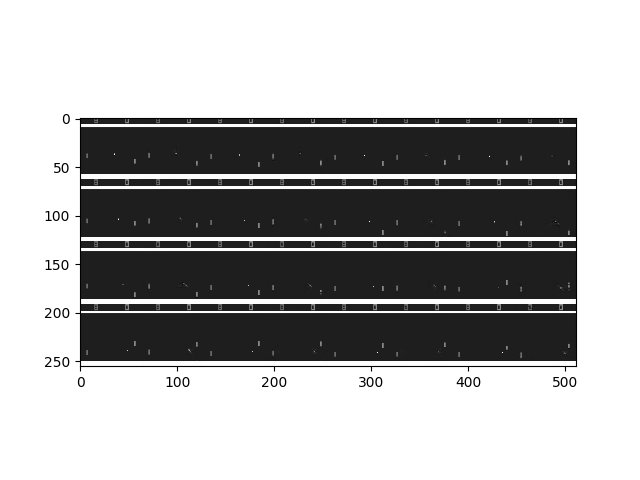
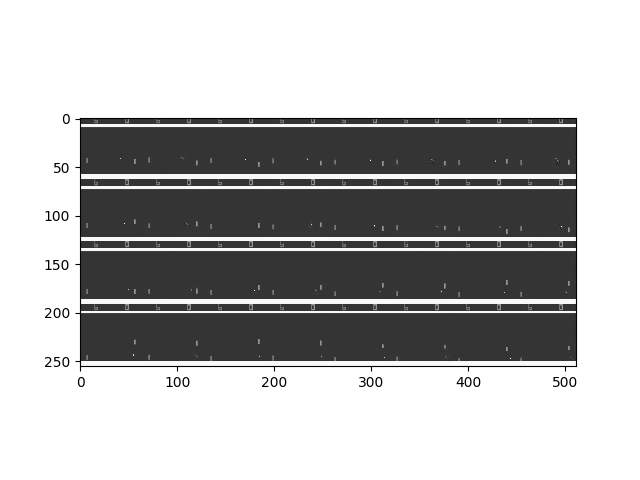
wgan transition

diff --git a/3dvae/transition.py b/3dvae/transition.py
@@ -51,3 +51,76 @@ class Transition(object):
     def close_session(self):
         self.sess.close()
 
+class TransitionWGAN(object):
+    def __init__(self, input_dim=[None,256], output_dim=[None,2*256], learning_rate=1e-3, batch_size=64, model_fname='/home/ronnypetson/models/Transition_WGAN'):
+        self.input_dim = input_dim
+        self.output_dim = output_dim
+        self.learning_rate = learning_rate
+        self.batch_size = batch_size
+        self.model_fname = model_fname
+        self.build()
+        self.sess = tf.InteractiveSession()
+        self.saver = tf.train.Saver()
+        if os.path.isfile(self.model_fname+'.meta'):
+            try:
+                self.saver.restore(self.sess,self.model_fname)
+            except ValueError:
+                self.sess.run(tf.global_variables_initializer())
+                print('Cannot restore model')
+        else:
+            print('Model file not found')
+            self.sess.run(tf.global_variables_initializer())
+
+    # Build the netowrk and the loss functions
+    def build(self):
+        # Generator
+        def generator_(x):
+            with tf.variable_scope('generator'):
+                d1 = tf.layers.dense(x, 512, activation=tf.nn.relu)
+                x_hat = tf.layers.dense(d1, self.input_dim[1], activation=None) # tf.nn.relu
+            return x_hat
+        # Discriminator
+        def discriminator_(x,reuse):
+            with tf.variable_scope('discriminator',reuse=reuse):
+                d2 = tf.layers.dense(x, 32, activation=tf.nn.relu)
+                d = tf.layers.dense(d2, 1, activation=None)
+            return d
+        # Placeholders
+        with tf.variable_scope('placeholders'):
+            self.x = tf.placeholder(tf.float32, self.input_dim) # add noise
+            self.x_ = tf.placeholder(tf.float32, self.input_dim)
+        self.x_hat = generator_(self.x)
+        self.d_true = discriminator_(tf.concat([self.x_,self.x],1),reuse=False)
+        self.d_generated = discriminator_(tf.concat([self.x_hat,self.x],1),reuse=True)
+        # Loss and train operations
+        with tf.name_scope('regularizer'):
+            epsilon = tf.random_uniform([self.batch_size, 1], 0.0, 1.0)
+            x_hat_ = epsilon * self.x_ + (1 - epsilon) * self.x_hat
+            d_hat_ = discriminator_(tf.concat([x_hat_,self.x],1), reuse=True)
+            gradients = tf.gradients(d_hat_, x_hat_)[0]
+            ddx = tf.sqrt(tf.reduce_sum(gradients ** 2, axis=[1]))
+            d_regularizer = tf.reduce_mean((ddx - 1.0) ** 2)
+        with tf.name_scope('loss'):
+            self.g_loss = tf.reduce_mean(self.d_generated)
+            self.d_loss = (tf.reduce_mean(self.d_true) - tf.reduce_mean(self.d_generated) + 10 * d_regularizer)
+        with tf.name_scope('optimizer'):
+            optimizer = tf.train.AdamOptimizer(learning_rate=self.learning_rate, beta1=0, beta2=0.9)
+            g_vars = tf.get_collection(tf.GraphKeys.GLOBAL_VARIABLES, scope='generator')
+            self.g_train = optimizer.minimize(self.g_loss, var_list=g_vars)
+            d_vars = tf.get_collection(tf.GraphKeys.GLOBAL_VARIABLES, scope='discriminator')
+            self.d_train = optimizer.minimize(self.d_loss, var_list=d_vars)
+    # Execute the forward and the backward pass
+    def run_single_step(self, x, x_):
+        g_loss, _ = self.sess.run([self.g_loss,self.g_train], feed_dict={self.x: x})
+        for j in range(5):
+            d_loss, _ = self.sess.run([self.d_loss,self.d_train], feed_dict={self.x_: x_, self.x: x})
+        return g_loss, d_loss
+    # x -> x_hat
+    def forward(self, x):
+        x_hat = self.sess.run(self.x_hat, feed_dict={self.x: x})
+        return x_hat
+    def save_model(self):
+        self.saver.save(self.sess, self.model_fname)
+    def close_session(self):
+        self.sess.close()
+

diff --git a/3dvae/3dvae.py b/3dvae/3dvae.py
@@ -66,18 +66,19 @@ def train_simulator():
     meta_ae.close_session()
     #ae.close_session()
 
-    simulator = Transition(model_fname='/home/ronnypetson/models/Vanilla_transition')
-    for epoch in range(100):
+    #simulator = Transition(model_fname='/home/ronnypetson/models/Vanilla_transition')
+    simulator = TransitionWGAN(model_fname='/home/ronnypetson/models/Transition_WGAN')
+    for epoch in range(480):
         for iter in range(num_sample // batch_size):
             # Obtina a batch
             batch = get_batch(state_pairs)
             x = [b[0] for b in batch]
             x_ = [b[1] for b in batch]
             # Execute the forward and the backward pass and report computed losses
-            loss = simulator.run_single_step(x,x_)
+            g_loss, d_loss = simulator.run_single_step(x,x_)
         if epoch%30==29:
             simulator.save_model()
-        print('[Epoch {}] Loss: {}'.format(epoch, loss))
+        print('[Epoch {}] Loss: {} {}'.format(epoch, g_loss, d_loss))
 
     x = state_pairs[100,0]
     sim_x = [x]
@@ -136,11 +137,12 @@ def train_meta_ae():
         batch = get_batch(encodings)
         x_reconstructed = meta_ae.reconstructor(batch) #.reshape((128,batch_size))
         n = 16 #meta_ae.batch_size
-        I_reconstructed = np.empty((128,(2*32+4)*n)) # Vertical strips
+        I_reconstructed = np.empty((128,(32+4)*n)) # Vertical strips
         for i in range(n):
-            x = np.concatenate((x_reconstructed[i].reshape(128,32),batch[i].reshape(128,32)),axis=1)
-            x = np.concatenate((x,np.ones((128,4))),axis=1)
-            I_reconstructed[:,(2*32+4)*i:(2*32+4)*(i+1)] = x
+            #x = np.concatenate((x_reconstructed[i].reshape(128,32),batch[i].reshape(128,32)),axis=1)
+            x = x_reconstructed[i].reshape(128,32) - batch[i].reshape(128,32)
+            x = np.concatenate((x,np.zeros((128,4))),axis=1)
+            I_reconstructed[:,(32+4)*i:(32+4)*(i+1)] = x
         fig = plt.figure()
         plt.imshow(I_reconstructed, cmap='gray')
         plt.savefig('rec_encodings.png')
@@ -205,8 +207,8 @@ def train_ae():
     print('Done!')
 
 if __name__ == '__main__':
-    train_ae()
+    #train_ae()
     #train_meta_ae()
     #decode_seq()
-    #train_simulator()
+    train_simulator()
 

diff --git a/3dvae/vae.py b/3dvae/vae.py
@@ -127,7 +127,7 @@ class VanillaAutoencoder(object):
         dec1 = tf.reshape(dec1,[-1,16,16,64]) # tf.shape(conv3)
         dec2 = tf.layers.conv2d_transpose(dec1, 64, (3,3), (1,1), padding='same', activation=tf.nn.relu)
         dec3 = tf.layers.conv2d_transpose(dec2, 64, (5,5), (2,2), padding='same', activation=tf.nn.relu)
-        self.x_hat = tf.layers.conv2d_transpose(dec3, 1, (5,5), (2,2), padding='same', activation=None) # tf.nn.relu
+        self.x_hat = tf.layers.conv2d_transpose(dec3, 1, (5,5), (2,2), padding='same', activation=tf.nn.relu) # None
         # Loss
         # Reconstruction loss
         # Minimize the cross-entropy loss
